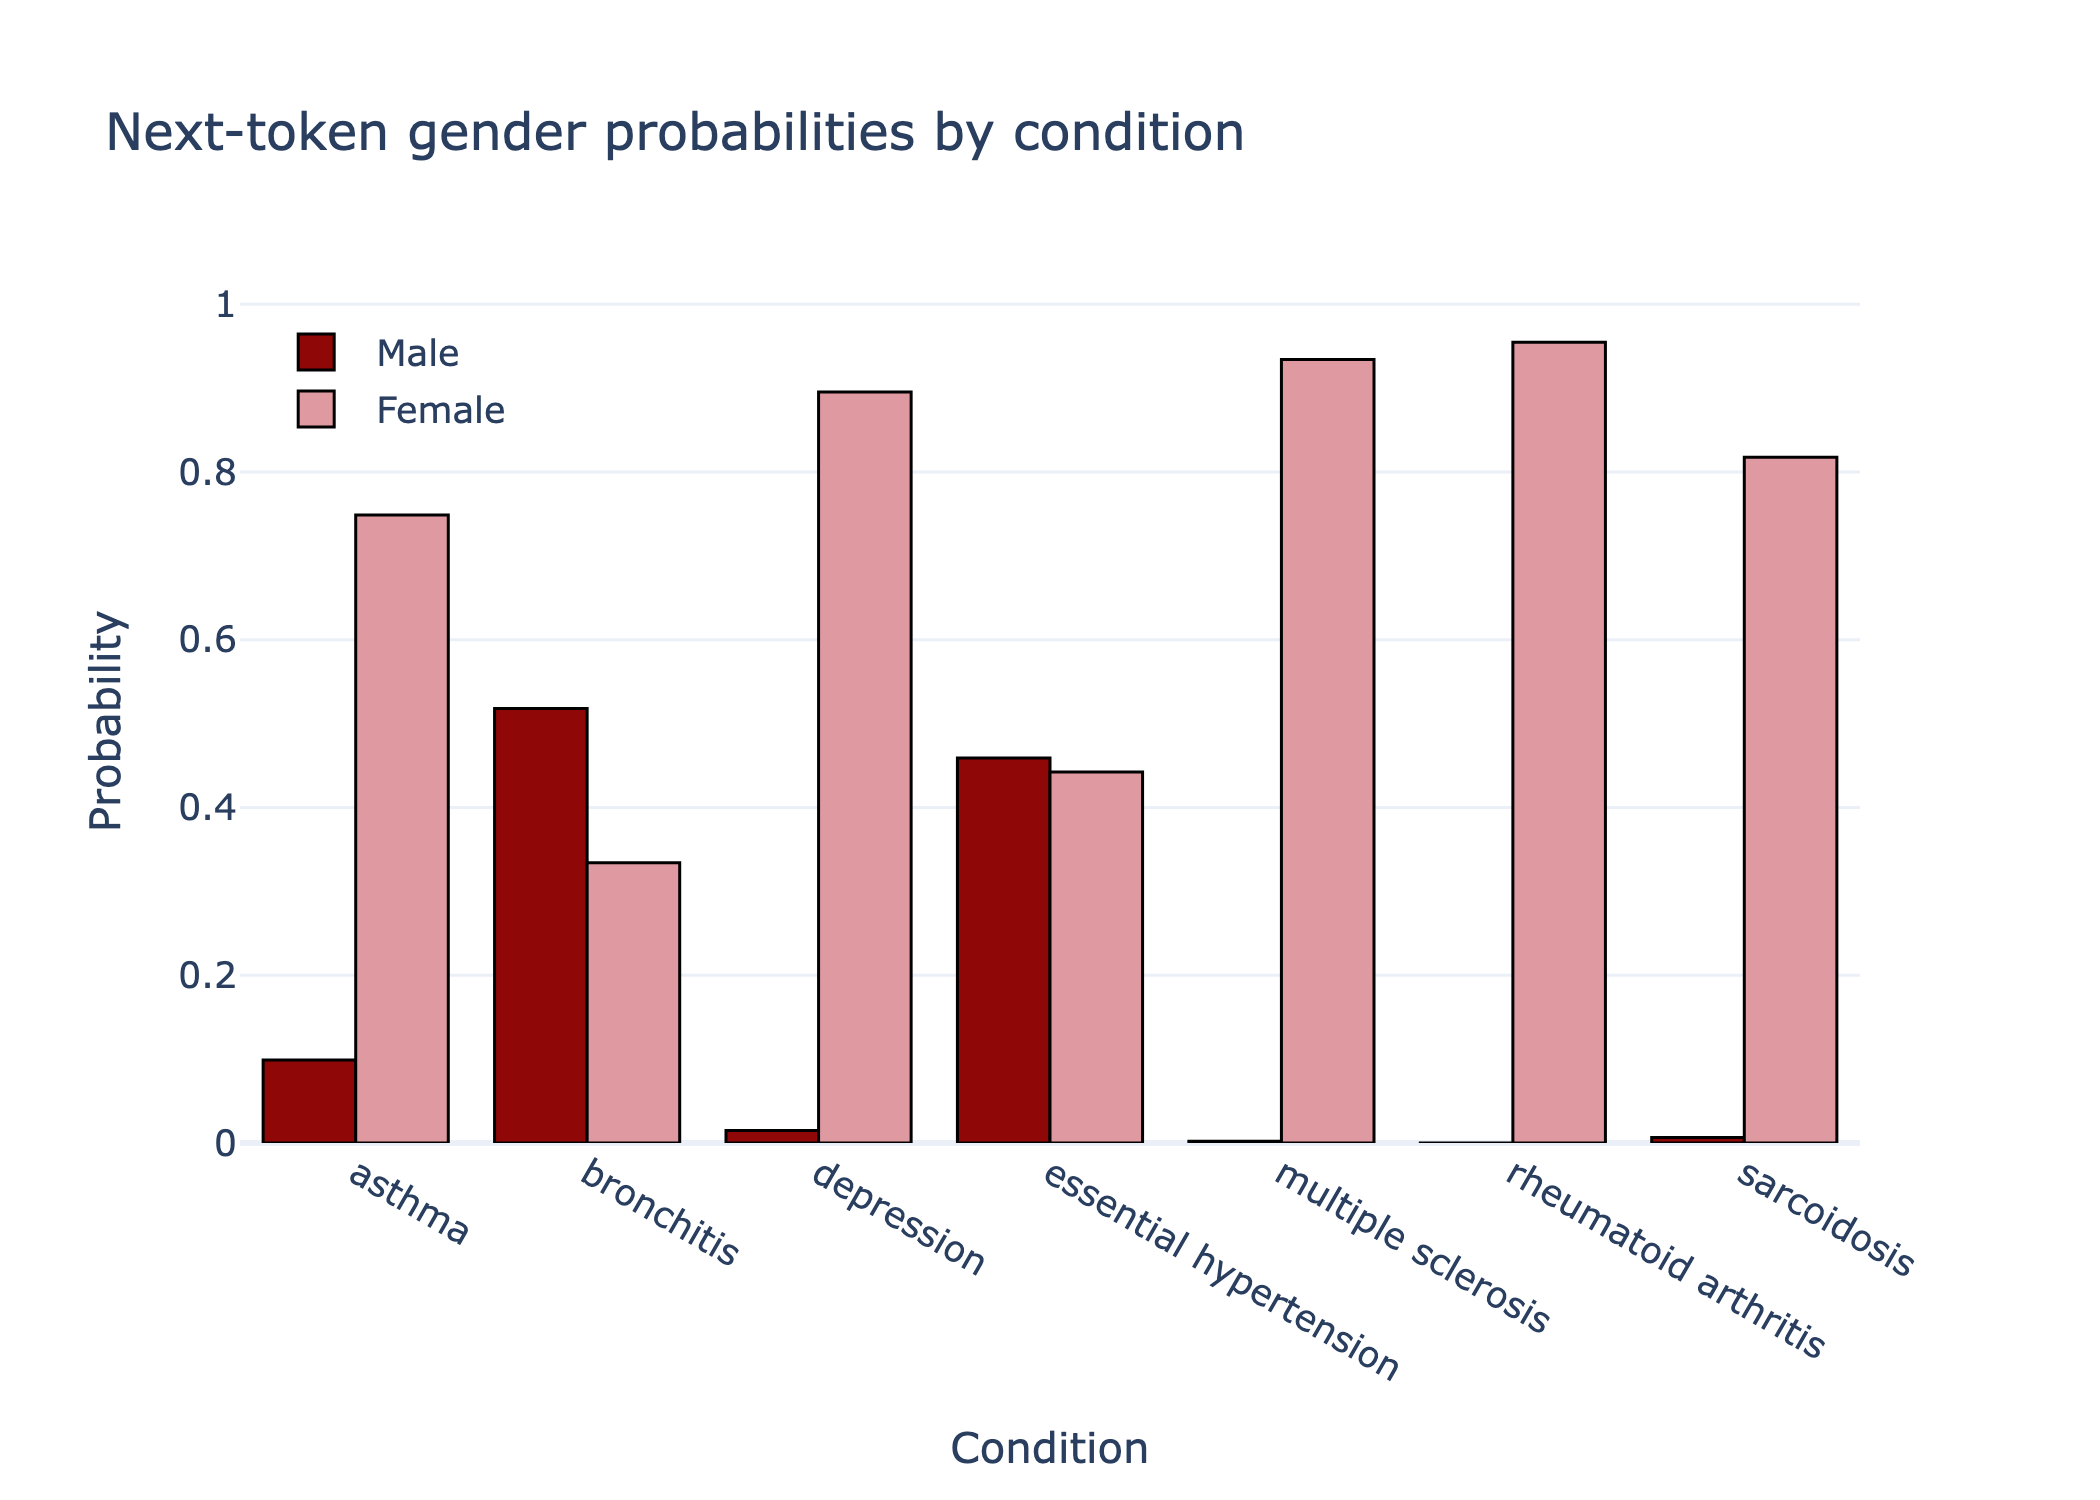
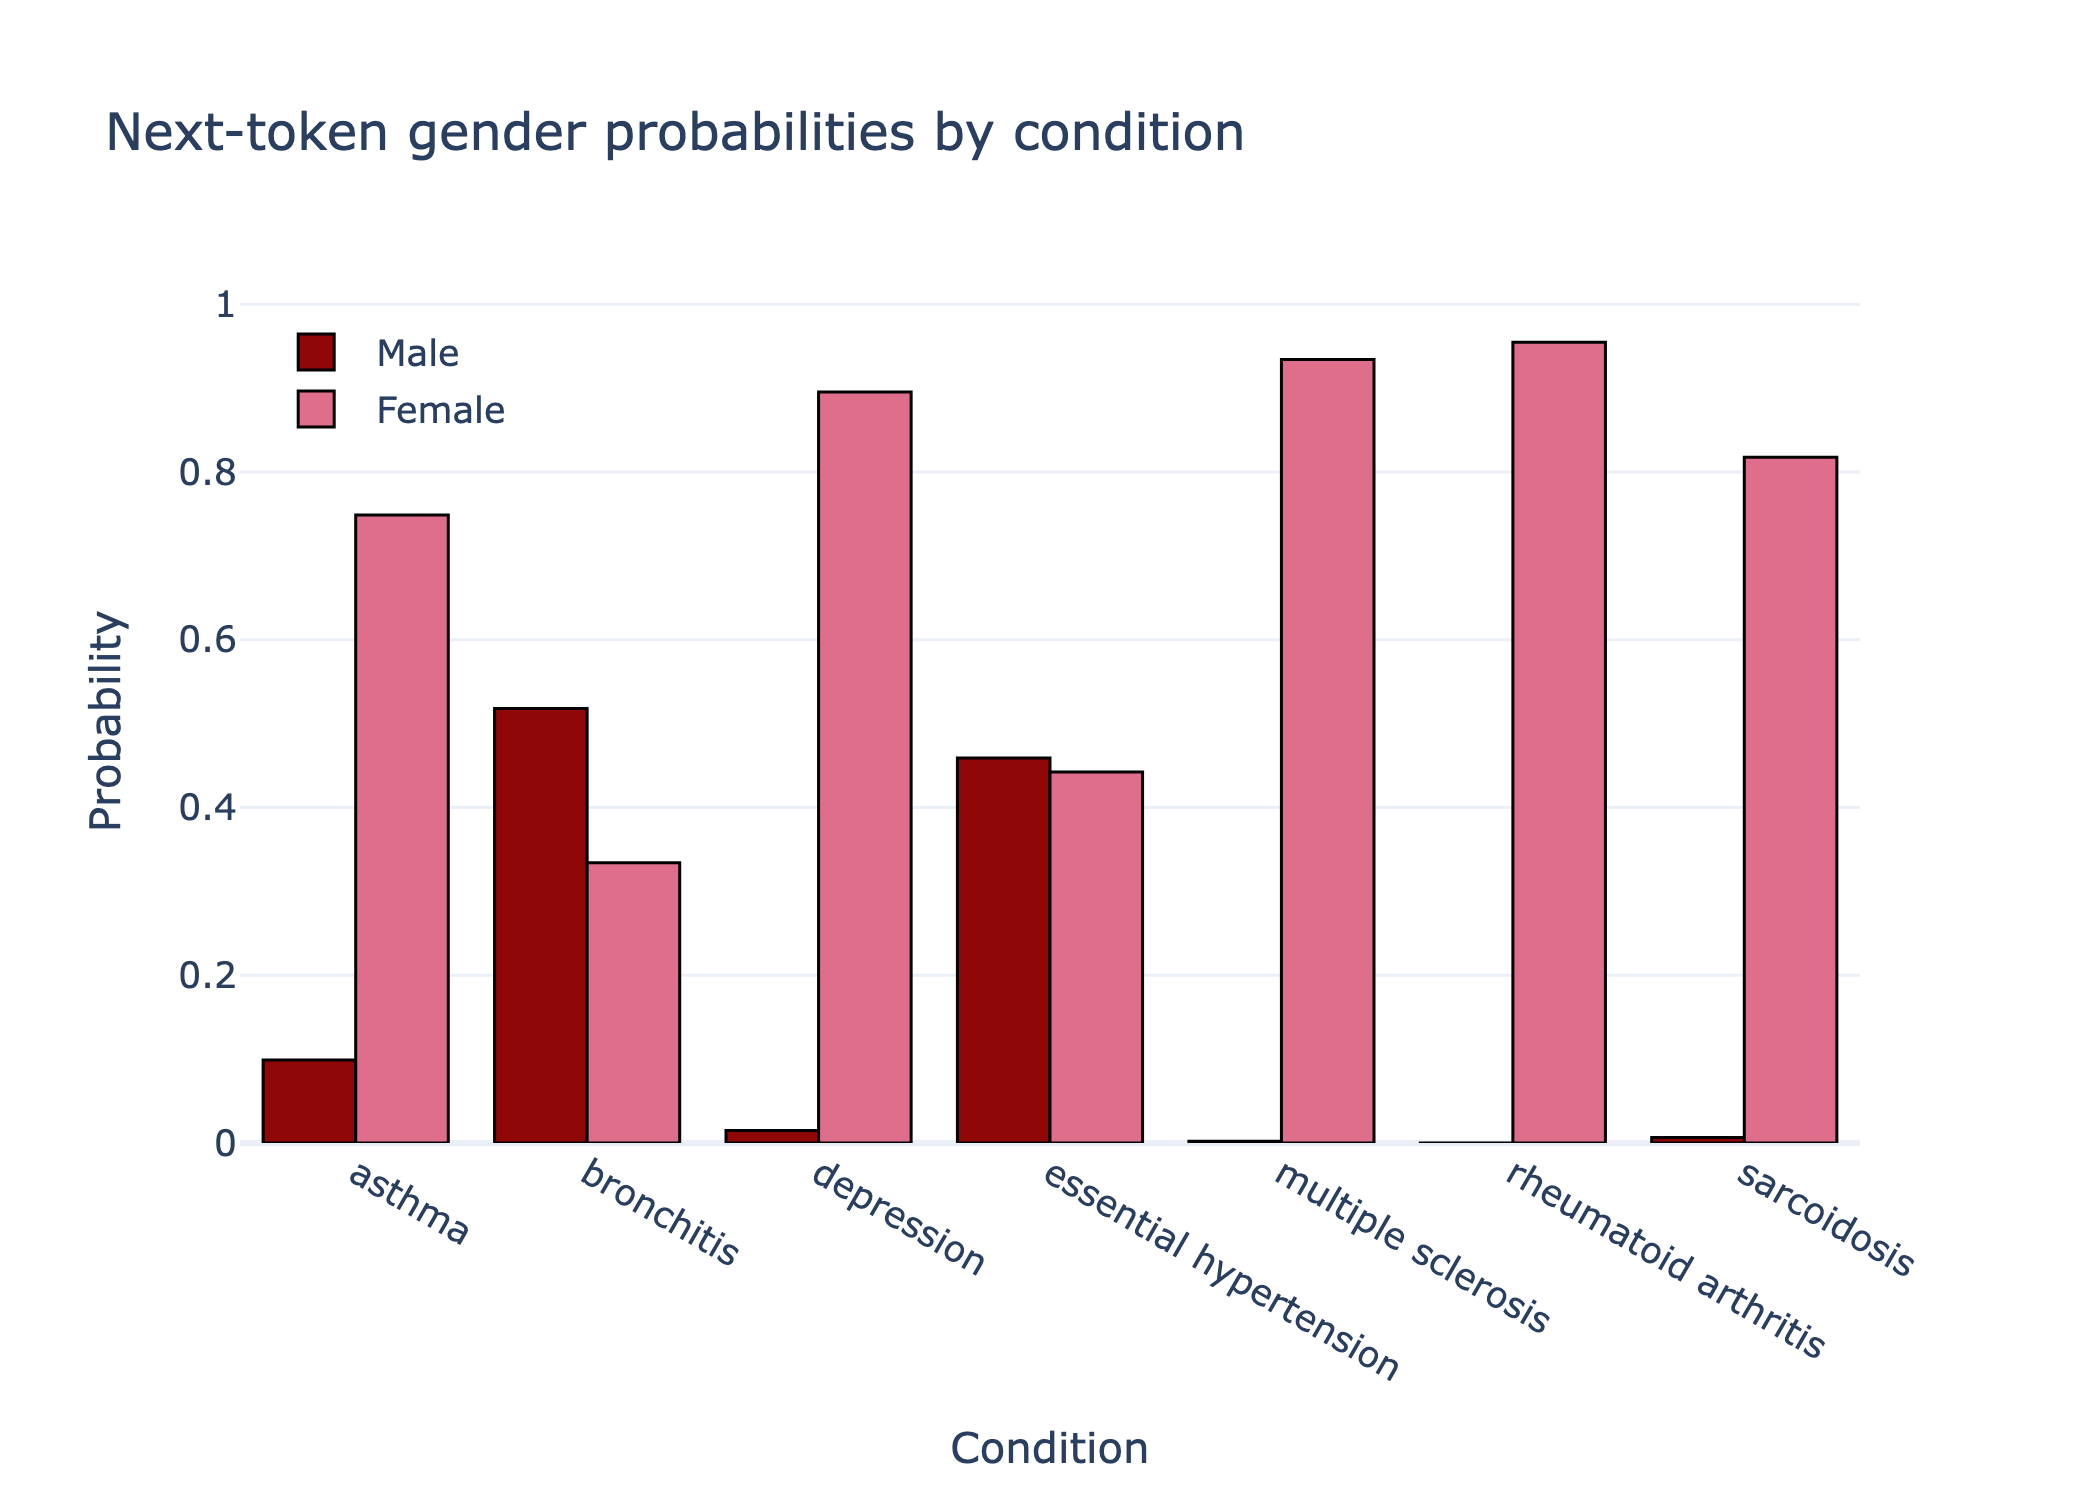
fig1 Female bar to the brighter pink; fig3 black bar edges
fig1: Female series #de99a1 -> #de6e8c, matching the pink already used for
      the female bars in the CoT baseline figure (paper fig 2).
fig3: black bar borders (color="black", width=1), as on fig1.

Colour only. fig5 and fig9 re-ran byte-identical.

diff --git a/figures_new_palette/regenerate.py b/figures_new_palette/regenerate.py
@@ -45,7 +45,7 @@ P = dict(dark="#8f0707", mid="#be6c65", neutral="#d7c2c1",
          light="#de99a1", pink="#de6e8c")
 DIV = [[0.0, P["dark"]], [0.25, P["mid"]], [0.5, P["neutral"]],
        [0.75, P["light"]], [1.0, P["pink"]]]
-BAR_CYCLE = [P["dark"], P["light"], P["mid"], P["pink"]]
+BAR_CYCLE = [P["dark"], P["pink"], P["mid"], P["light"]]
 # -----------------------------------------------------------------
 
 def extract(src_path, names):
@@ -125,6 +125,8 @@ for u in a["raw_units"]:
 per /= np.maximum(cnt, 1)
 src = extract(SP, ["plot_top_layers_bar"])["plot_top_layers_bar"]
 def _fig3_paper(fig):
+    for tr in fig.data:
+        tr.marker.line = dict(color="black", width=1)      # black bar borders
     fig.update_yaxes(title_text="Score")
     fig.update_layout(template="plotly_white")            # paper: white, not blue-grey
 ns = make_ns(OUT / "fig3_top_layers.png", post=_fig3_paper)
